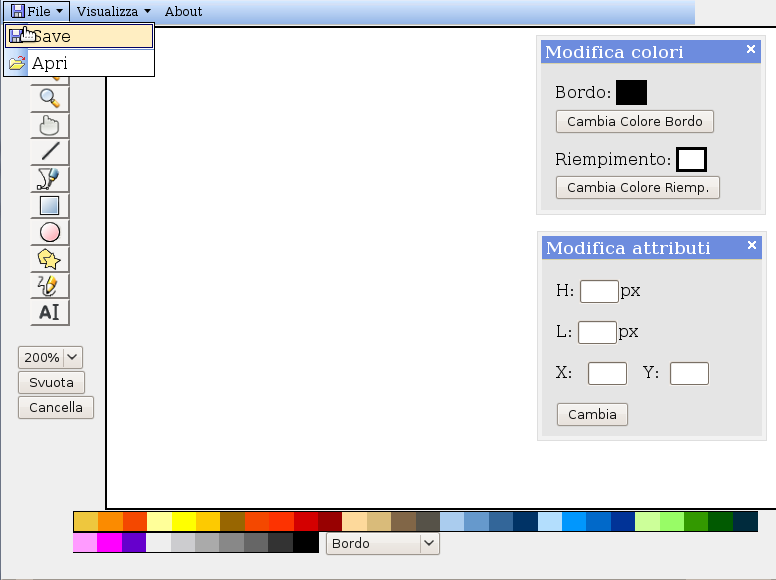
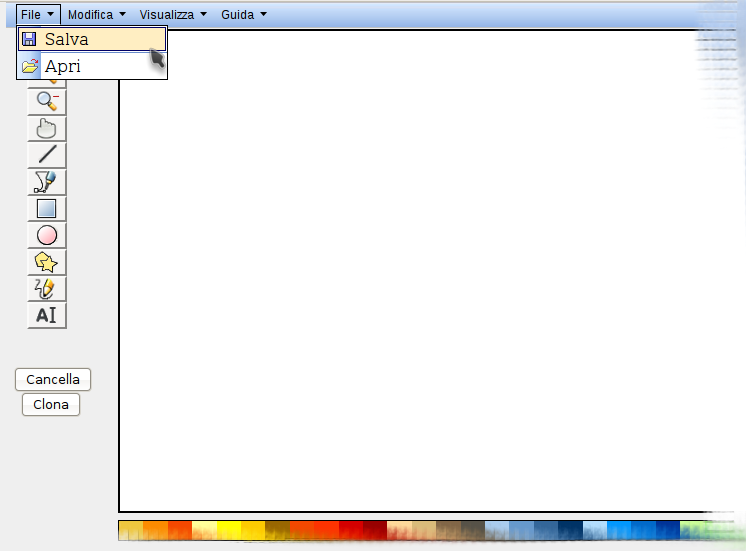
MU:correzioni grammaticali, PQ: piccoli errori, Norme: aggiunti altri plugins

diff --git a/src/canvas.js b/src/canvas.js
@@ -383,7 +383,6 @@ Button.prototype.bindCursor = function(type){
        $("#cv").css({'cursor' : 'url("images/textDraw.png"),auto'});
       break;
      default:
-      alert("fatto");
     }
   }
 };

diff --git a/doc/ManualeUtente/ManualeUtente.tex b/doc/ManualeUtente/ManualeUtente.tex
@@ -166,7 +166,7 @@ Il presente documento si propone di fornire la documentazione di supporto necess
 \sezione{Introduzione}
 
 \subsezione{Definizione dell'utente del prodotto}
-Il prodotto \`e pensato per tutti gli utenti che hanno conoscenze minime in ambiente di grafica vettoriale e che possiedono una connessione ad internet. Il sistema potr\`a anche essere usato da chiunque voglia estendere l'applicazione, secondo le norme che regolano la licenza d'utilizzo.\\
+Il prodotto \`e pensato per tutti gli utenti che hanno conoscenze minime in ambiente di grafica vettoriale e che possiedono una connessione ad internet. Il sistema potr\`a essere modificato da chiunque voglia estendere l'applicazione, secondo le norme che regolano la licenza d'utilizzo.\\
 
 \subsezione{Come leggere il manuale}
 Il presente Manuale Utente \`e suddiviso in varie sezioni. Nella sezione ''Introduzione'' il lettore pu\`o trovare riferimenti a documenti utili per l'uso del prodotto e informazioni riguardo eventuali segnalazioni di problemi riscontrati nel suo utilizzo.
@@ -181,12 +181,12 @@ Nella sezione ''Descrizione generale'' viene descritto il prodotto illustrandone
 \subsezione{Come riportare problemi e malfunzionamenti}
 Nel caso durante l'utilizzo del prodotto sorgano problemi o malfunzionamenti non descritti nel seguente documento, l'utente \`e invitato a contattare la WebShape all'indirizzo \href{mailto:webshape.contact@gmail.com}{webshape.contact@gmail.com} riportando i seguenti dati:\\
 \begin{elencopuntato}[\normindent]
-	\item[-] Versione del prodotto
-	\item[-] Sistema operativo in uso
-	\item[-] \underline{Browser} in uso
-	\item[-] Configurazione hardware in uso
-	\item[-] Fase di utilizzo in cui si \`e manifestato l'errore
-	\item[-] Descrizione dell'errore
+	\item[-] Versione del prodotto;
+	\item[-] Sistema operativo in uso;
+	\item[-] \underline{Browser} in uso;
+	\item[-] Configurazione hardware in uso;
+	\item[-] Fase di utilizzo in cui si \`e manifestato l'errore;
+	\item[-] Descrizione dell'errore.
 \end{elencopuntato}
 
 \sezione{Descrizione Generale}
@@ -196,14 +196,14 @@ Il prodotto \`e stato sviluppato come un'applicazione web. \`E possibile utilizz
 funzionalit\`a. Il sistema permette un salvataggio dei disegni che potranno essere ricaricati e aggiornati.
 
 \subsezione{Requisiti tecnici per il funzionamento del programma}
-\subsubsezione{lato client}
+\subsubsezione{Lato client}
 \begin{elencopuntato}[\normindent]
-    \item[-] Requisiti software: Firefox 3.2b2 o successivo, Firefox 3.0.6 tutto tranne il disegno di testo, Opera 9.6 tutto tranne il disegno di testo, Chrome (versione attuale), Safari (versione attuale), IE8: tutto tranne il testo e la selezione che risulta non essere ottimale.\\
+    \item[-] Requisiti software: Firefox 3.1b2 o successivo, Firefox 3.0.6 tutto tranne il disegno di testo, Opera 9.6 tutto tranne il disegno di testo, Chrome (versione attuale), Safari (versione attuale), IE8: tutto tranne il testo e la selezione che risulta non essere ottimale.\\
     Risoluzione minima consigliata: 1024x768.\\
 N.B. Dove non \`e supportato il testo, c'\`e un supporto minimo: un solo font, colore di riempimento ignorato, set di caratteri minimo. 
     \item[-] Requisiti hardware:  Processore Intel 2GHz o compatibili; 512MB memoria RAM 
 \end{elencopuntato}
-\subsubsezione{lato server}
+\subsubsezione{Lato server}
 \begin{elencopuntato}[\normindent]
     \item[-] Requisiti software:  \underline{JVM} 1.5 o superiore, Apache \underline{Tomcat} 6.0 o superiore.
     \item[-] Requisiti hardware:  Processore Intel 1GHz; 1GB memoria RAM
@@ -216,17 +216,17 @@ N.B. Dove non \`e supportato il testo, c'\`e un supporto minimo: un solo font, c
 Il programma non necessita di installazione. 
 
 \subsubsezione{Lato server}
-Per permettere il funzionamento del sistema, \`e necessario installare un Web Server: Apache Tomcat. Oltre a essere un Web Server, Tomcat \`e anche un
+Per permettere il funzionamento del sistema, \`e necessario installare un Web Server: Apache Tomcat. Oltre ad essere un Web Server, Tomcat \`e anche un
 Application Server, cio\`e una piattaforma per l'esecuzione di applicazioni Web sviluppate nel linguaggio Java.\\
 \\
 Prima di tutto \`e necessario disporre di una Java Virtual Machine. Per il download visitare il link al sito ufficiale della Sun Microsystem:\\
-http://java.com/download/index.jsp\\
+\href{http://java.com/download/index.jsp}{http://java.com/download/index.jsp}\\
 \\
-Per effettuare il download di Apache Tomcat 6.0 andare al link del sito ufficiale \textit{http://tomcat.apache.org/download-60.cgi}\\
+Per effettuare il download di Apache Tomcat 6.0 seguire il link del sito ufficiale: \href{http://tomcat.apache.org/download-60.cgi}{http://tomcat.apache.org/download-60.cgi}\\
 Nella sezione \textit{Binary Distribution} della pagina web, \`e possibile effettuare il download sia per sistemi Windows che per sistemi Linux.\\
 \\\\
 \indent{\textbf{Installazione su sistemi Windows:}}\\
-Terminato il download, fare doppio click sul file scaricato per iniziare l'installazione.\\
+Terminato il download, aprire il file scaricato per iniziare l'installazione.\\
 La schermata \`e la seguente:
 
 \begin{figure}[!ht]
@@ -235,7 +235,7 @@ La schermata \`e la seguente:
 \caption{Setup Wizard Apache Tomcat}
 \end{figure} 
 
-Premere \textit{Next} per andare avanti e accettare la licenza.
+Premere \textit{Next} per proseguire e accettare la licenza.
 Giunti alla schermata per la scelta della cartella di installazione, mantenere quella indicata di default.
 
 \begin{figure}[!ht]
@@ -246,7 +246,7 @@ Giunti alla schermata per la scelta della cartella di installazione, mantenere q
 \newpage
 
 Premere \textit{Next}, e si presenter\`a la finestra di configurazione di Tomcat:
-Alla voce \textit{http/1.1 Connector Port} lasciare il valore di default (di solito 8080), quindi impostare una User Name e Password a scelta necessarie per accedere alla configurazione di Tomcat.\\
+Alla voce \textit{http/1.1 Connector Port} lasciare il valore di default (solitamente 8080), quindi impostare Username e Password, necessarie per accedere alla configurazione di Tomcat.\\
 Quindi premere \textit{Next}.
 
 \begin{figure}[!ht]
@@ -255,9 +255,7 @@ Quindi premere \textit{Next}.
 \caption{Configuration}
 \end{figure} 
 
-Nella schermata successiva, \`e necessario indicare il percorso dell'installazione della Java Virtual Machine (J2SE). Se gia installata, lasciare il percorso di default
-indicato.
-Per completare l'installazione, premere su \textit{Install}.
+Nella schermata successiva, \`e necessario indicare il percorso dell'installazione della Java Virtual Machine (J2SE). Se g\`a  installata, mantenere il percorso di default indicato. Per completare l'installazione, cliccare su \textit{Install}.
 
 \begin{figure}[!ht]
 \centering
@@ -266,20 +264,19 @@ Per completare l'installazione, premere su \textit{Install}.
 \end{figure} 
 
 \indent{\textbf{Installazione su sistemi Linux:}}\\
-Scaricato il .tar.gz, estrarre il contenuto su una cartella.
-Non \`e necessaria una installazione vera e propria e per la sua esecuzione si rimanda al paraggrafo \textit{Avvio del programma} sezione \textit{Linux}.
+Scaricato il .tar.gz, estrarre il contenuto in una cartella. Non \`e necessaria un'installazione vera e propria e per la sua esecuzione si rimanda al paragrafo \textit{Avvio del programma} sezione \textit{Linux}.
 
 \subsezione{Avvio del programma}
 \subsubsezione{Lato client}
-\`E sufficiente aprire la pagina web con un browser supportato. L'indirizzo dipende dall'host in cui viene installato il server.
+\`E sufficiente aprire la pagina web con un browser supportato. L'indirizzo dipende dall'host nel quale viene installato il web server.
 \subsubsezione{Lato server}
-Sono presenti due sezioni per effettuare l'avvio su sistemi Windows e su sistemi Linux.\\
-\\\\
+Sono presenti due sezioni per effettuare l'avvio su sistemi Windows e su sistemi Linux.\\ \\ \\
 \indent{\textbf{Avvio del programma su sistemi Windows:}}\\
-Per l'avvio del server, andare su \textit{Start-$ > $Programmi-$ > $Apache Tomcat 6.0} e avviare \textit{Monitor Tomcat}.
+Per l'avvio del web server, andare su \textit{Start-$ > $Programmi-$ > $Apache Tomcat 6.0} e avviare \textit{Monitor Tomcat}.
 Nella barra delle applicazioni in esecuzione, apparir\`a l'icona che indica l'avvio di Tomcat.\\
-A questo punto avviare un browser e digitare il seguente indirizzo\\ \textit{http://localhost:8080/manager/html}\\
-Dopo aver inserito User Name e Password richiesti, si entrer\`a nel manager di Tomcat.\\
+A questo punto avviare un browser e digitare il seguente indirizzo:\\ 
+\href{http://localhost:8080/manager/html}{http://localhost:8080/manager/html}\\
+Dopo aver inserito Username e Password richiesti, si entrer\`a nell'area di gestione di Tomcat.\\
 Andare nella sezione \textit{WAR file to deploy} della pagina.\\
 \begin{figure}[!ht]
 \centering
@@ -287,7 +284,7 @@ Andare nella sezione \textit{WAR file to deploy} della pagina.\\
 \caption{Deploy}
 \end{figure} 
 
-Selezionare il file .war dell'applicazione e quindi premere su Deploy.\\
+Selezionare il file \textit{.war} dell'applicazione e quindi cliccare su \textit{Deploy}.\\
 A questo punto nella cartella \textit{webapps} della cartella di installazione di Tomcat sar\`a presente l'applicazione AJAXDRAW pronta per la sua esecuzione.\\ 
 \\\\
 \indent{\textbf{Avvio del programma su sistemi Linux:}}\\
@@ -303,15 +300,15 @@ Se tutto \`e andato per il meglio, dovrebbero comparire i path di CATALINA e JRE
 %Using CATALINA\{_}TMPDIR: /home/red/apache-tomcat-6.0.14/temp\\
 %Using JRE\{_}HOME: /usr/lib/jvm/java-6-sun-1.6.0.03\\
 \\
-Avviare un browser e inserire l'indirizzo \textit{http://localhost:8080}\\
+Avviare un browser e inserire l'indirizzo \href{http://localhost:8080}{http://localhost:8080}.\\
 Se compare la pagina principale di Tomcat, significa che il Web Server funziona correttamente.
-A questo punto, \`e necessario procedere alla configurazione dell'utente amministratore per poter usare il Tomcat Manager.
+A questo punto, \`e necessario procedere alla configurazione dell'utente amministratore per poter utilizzare il Tomcat Manager.
 Per fare questo, da shell, spostarsi nella cartella principale di Tomcat ed eseguire i seguenti comandi:\\
 \\
 \textit{cd conf}\\
 \textit{sudo gedit tomcat-users.xml}\\
 \\
-Sostituire il file aperto, con il seguente codice:\\
+Sostituire il contenuto del file aperto con il seguente codice:\\
 \\
 \textit{$ < $?xml version='1.0' encoding='utf-8'?$ > $}\\
 \textit{$ < $tomcat-users$ > $}\\
@@ -320,10 +317,10 @@ Sostituire il file aperto, con il seguente codice:\\
 \textit{  $ < $user username='admin' password='admin' roles='manager'/$ > $}\\
 \textit{$ < $/tomcat-users$ > $} \\
 \\
-In questo modo \`e stato impostato uno User Name con valore \textit{admin} e una Password con valore \textit{admin}. Queste credenziali sono da usare per accedere al Tomcat Manager.\\
-A questo punto avviare un browser e digitare il seguente indirizzo\\ \textit{http://localhost:8080/manager/html}\\
-Dopo aver inserito User Name e Password richiesti, si entrer\`a nel manager di Tomcat.\\
-Andare nella sezione \textit{WAR file to deploy} della pagina.
+In questo modo \`e stato impostato uno Username con valore \textit{admin} e una Password con valore \textit{admin}. Queste credenziali possono essere utilizzate per accedere al Tomcat Manager.\\
+A questo punto avviare un browser e digitare il seguente indirizzo\\ \href{http://localhost:8080/manager/html}{http://localhost:8080/manager/html}\\
+Dopo aver inserito Username e Password richiesti, si acceder\` a al manager di Tomcat.\\
+Raggiungere la sezione \textit{WAR file to deploy} della pagina.
 
 \begin{figure}[!ht]
 \centering
@@ -332,7 +329,7 @@ Andare nella sezione \textit{WAR file to deploy} della pagina.
 \end{figure} 
 
 Selezionare il file .war dell'applicazione e quindi premere su Deploy.\\
-
+\newpage
 \subsezione{Descrizione funzionale - Lato client}
 \subsubsezione{Il Menu}
 Il programma dispone di un menu a tendina nella parte alta dell'interfaccia grafica.
@@ -343,12 +340,13 @@ Il programma dispone di un menu a tendina nella parte alta dell'interfaccia graf
 \caption{menu a tendina}
 \end{figure} 
 
-Nella sezione \textit{File} \`e possibile salvare il lavoro effettuato sul proprio computer in formato \underline{svg}, oppure caricare un lavoro realizzato in precedenza.
-Per aprire un file si deve selezionare \textit{File > Carica} e inserire il percorso del file nel dialog che si aprir\`a oppure selezionarlo cliccando sul pulsante \textit{Sfoglia}. 
-Per salvare un file si deve selezionare \textit{File > Salva} e inserire un nome nel dialog che si aprir\`a in seguito e confermare la scelta. Comparir\`a un link che permette di scaricare il file.
-La sezione \textit{Visualizza} permette di visualizzare i dialog delle propriet\`a nel caso fossero stati chiusi tramite il tasto di chiusura in alto a destra (la classica X). \textit{Colori} si riferisce alla finestra che modifica i colori di una figura mentre \textit{Propriet\`a} gestisce la posizione e la dimensione di una figura.
-Infine la sezione \textit{About} permette di visualizzare informazioni sul prodotto e sull'azienda sviluppatrice.
-
+Nella sezione \textit{File} \`e possibile salvare il lavoro svolto fino a quel momento sul proprio computer in formato \underline{svg}, oppure caricare un lavoro realizzato in precedenza.
+Per aprire un file si deve selezionare \textit{File -$ > $Carica} e inserire il percorso del file nel dialog che si aprir\`a oppure selezionarlo cliccando sul pulsante \textit{Sfoglia}. 
+Per salvare un file si deve selezionare \textit{File -$ > $Salva} e inserire un nome nel dialog che si aprir\`a in seguito e confermare la scelta. Comparir\`a un link che permette di scaricare il file.
+La sezione \textit{Modifica} contiene il pulsante \textit{Svuota Canvas}, che permette di eliminare tutte le figure disegnate sul canvas e ricominciare dall'inizio.
+La sezione \textit{Visualizza} permette di visualizzare i dialog delle propriet\`a nel caso fossero stati chiusi tramite il tasto di chiusura in alto a destra (la classica X). \textit{Colori} si riferisce alla finestra che modifica i colori di una figura mentre \textit{Propriet\`a} gestisce la posizione e la dimensione di una figura, e altre opzioni dipendenti dallo strumento in uso.
+Infine la sezione \textit{Guida} contiene il link alla guida in linea, e permette di visualizzare informazioni sul prodotto e sull'azienda sviluppatrice.
+\newpage
 \subsubsezione{La Toolbar}
 Le funzioni di disegno del programma sono accessibili attraverso i bottoni presenti nel lato sinistro dell'interfaccia grafica. Cliccando su un pulsante si attiva la funzione desiderata. Il puntatore del mouse cambia a seconda della funzione di disegno scelta, nei browser che lo supportano.
 
@@ -358,7 +356,7 @@ Le funzioni di disegno del programma sono accessibili attraverso i bottoni prese
 \caption{Selezione}
 \end{figure} 
 
-Qui \`e stata usata la funzione \textit{seleziona} per selezionare una figura. Selezionata una figura, tutti i suoi parametri sono visualizzati nelle finestre grafiche sulla destra. \`E possibile spostare i punti evidenziati cliccando su di essi e trascinare il mouse tenendo premuto il pulsante. Rilasciare il pulsante per fermare lo spostamento. Modificando questi punti \`e possibile modificare le dimensioni delle figure, e nel caso delle linee a mano libera e delle curve di bezier \`e possibile spostare i punti per cui passano le tangenti alle curve. Cliccando e tenendo premuto il pulsante sinistro del mouse dentro ad una figura \`e possibile spostarla all'interno dell'area di disegno.
+Qui \`e stata usata la funzione di \textit{selezione}. Una volta selezionata una figura, tutti i suoi parametri sono visualizzati nel dialog delle propriet\` a sulla destra. \`E possibile spostare i punti evidenziati cliccando su di essi e trascinare il mouse tenendo premuto il pulsante. Rilasciare il pulsante per fermare lo spostamento. Modificando questi punti \`e possibile regolare la dimensione delle figure, e nel caso specifico delle linee a mano libera e delle curve di Bezier si possono spostare i punti per cui passano le tangenti alle curve. Cliccando e mantenendo la pressione del pulsante sinistro del mouse all'interno di una figura, \`e possibile spostarla all'interno dell'area di disegno, azione effettuabile anche tramite le frecce direzionali della tastiera.
 
 \begin{figure}[!ht]
 \centering
@@ -367,7 +365,7 @@ Qui \`e stata usata la funzione \textit{seleziona} per selezionare una figura. S
 \end{figure} 
 
 \vspace{100pt}
-Qui \`e stata selezionata la funzione \textit{Ellisse}. Si deve fare click nella pozione in cui si vuole disegnare la figura (vertice alto a sinistra della figura), poi col puntatore del mouse premuto si modifica la dimensione della figura. Seguendo la stessa procedura \`e possibile disegnare rettangoli dopo aver selezionato il relativo strumento.
+In questo caso \`e stata selezionata la funzione per il disegno di un'\textit{ellisse}. Cliccando e spostando il mouse sopra all'area disegnabile, si ha la possibilit\` a di creare una figura di dimensioni arbitrarie, che verr\` a effettivamente disegnata al rilascio del pulsante sinistro del mouse. Per il disegno di un \textit{rettangolo}, valgono le stesse considerazioni.
 
 \begin{figure}[!ht]
 \centering
@@ -376,17 +374,17 @@ Qui \`e stata selezionata la funzione \textit{Ellisse}. Si deve fare click nella
 \end{figure} 
 
 \vspace{300pt}
-Qui \`e stato disegnato un \textit{poligono regolare}. L'unica differenze rispetto ad ellissi e rettangoli consiste nella finestra di propriet\`a a destra dell'interfaccia grafica, che permette di modificare il numero di lati del poligono inserendo il valore desiderato a fianco dell'etichettta \textit{N. di lati} e confermando tale scelta cliccando sul bottone \textit{Cambia}.
+Qui \`e stato disegnato un \textit{poligono regolare}. L'unica differenza rispetto ad ellissi e rettangoli consiste nella composizione della finestra di propriet\`a, alla quale si aggiunge una casella che permette di modificare il numero di lati del poligono da disegnare o disegnato, inserendo il valore desiderato a fianco dell'etichettta \textit{N. di lati} e confermando tale scelta cliccando sul pulsante \textit{Cambia}.
 
 \begin{figure}[!ht]
 \centering
 \includegraphics[scale=0.5]{images/mano.png}
-\caption{Strumento Mano per spostare, trascinare le figure}
+\caption{Strumento Mano per spostare l'area visualizzata}
 \end{figure} 
 \newpage
 
 \vspace{300pt}
-Qui \`e stata selezionata la funzione \textit{Mano}. Cliccando in un punto qualsiasi del \underline{canvas} \`e possibile cambiare l'area di disegno correntemente visualizzata spostando il mouse mantenendo premuto il tasto sinistro.
+Qui \`e stata selezionata la funzione di \textit{spostamento} dell'area di disegno. Cliccando su un punto qualsiasi del \underline{canvas} \`e possibile cambiare l'area di disegno correntemente visualizzata spostando il mouse mantenendo premuto il tasto sinistro.
 
 \begin{figure}[!ht]
 \centering
@@ -397,7 +395,7 @@ Qui \`e stata selezionata la funzione \textit{Mano}. Cliccando in un punto quals
 \newpage
 
 \vspace{300pt}
-Qui \`e stata selezionata la funzione \textit{Disegno a mano libera} cliccando sull'apposito bottone (evidenziato in grigio). \`E possibile tracciare una linea a mano libera tenendo premuto il pulsante sinistro del mouse e muovendo il mouse.
+Qui \`e stata selezionata la funzione di \textit{Disegno a mano libera}. \`E possibile tracciare una linea a mano libera tenendo premuto il pulsante sinistro del mouse e muovendo il mouse. 
 
 \begin{figure}[!ht]
 \centering
@@ -406,7 +404,7 @@ Qui \`e stata selezionata la funzione \textit{Disegno a mano libera} cliccando s
 \end{figure} 
 
 \vspace{300pt}
-Qui \`e stata selezionata la funzione \textit{Disegno di una retta}. Si deve tenere premuto il pulsante sinistro del mouse e spostare il cursore per disegnare la linea retta. La fine della retta \`e determinata dal rilascio del pulsante del mouse.
+Qui \`e stata selezionata la funzione \textit{Disegno di una retta}. Si deve premere il pulsante sinistro del mouse e spostare il cursore per disegnare la linea retta. La fine della retta \`e determinata dal rilascio del pulsante del mouse.
 
 \begin{figure}[!ht]
 \centering
@@ -415,7 +413,7 @@ Qui \`e stata selezionata la funzione \textit{Disegno di una retta}. Si deve ten
 \end{figure} 
 
 \vspace{300pt}
-Qui \`e stata selezionata la funzione \textit{Etichetta di testo}. Si deve cliccare sull'area di disegno per scegliere la posizione del testo ed utilizzare la finestra di propriet\`a a destra per cambiare il testo dell'etichetta ed il font.
+Qui \`e stata selezionata la funzione per la creazione di una\textit{casella di testo}. Si deve cliccare sull'area di disegno come per le altre figure, per stabilire posizione e dimensioni della casella,  ed utilizzare il dialog di propriet\`a per cambiare la stringa contenuta all'interno ed il tipo di carattere (solo per i browser che supportano tale funzionalit\` a).
  
 \begin{figure}[!ht]
 \centering
@@ -430,9 +428,8 @@ Qui \`e stata selezionata la funzione \textit{Etichetta di testo}. Si deve clicc
 \end{figure} 
 
 \vspace{100pt}
-Qui \`e stata selezionata la funzione \textit{Zoom}. \`E possibile impostare manualmente la percentuale di zoom agendo sulla combobox posta in basso a sinistra dell'applicazione con un click sulla combobox apposita e un click sulla percentuale desiderata. A questo punto \`e possibile aumentare o diminuire lo zoom della percentuale desiderata mediante l'tuilizzo dei pulsanti lente (evidenziati in grigio) per aumentare o diminuire il grado di zoom.
+Qui \`e stata selezionata la funzione di \textit{Zoom}. \`E possibile aumentare o diminuire il livello di zoom mediante l'utilizzo dei pulsanti appositi.
  
-
 \begin{figure}[!ht]
 \centering
 \includegraphics[scale=0.4]{images/bezier.png}
@@ -440,7 +437,7 @@ Qui \`e stata selezionata la funzione \textit{Zoom}. \`E possibile impostare man
 \end{figure} 
 
 \vspace{100pt}
-Qui \`e stata selezionata la funzione \textit{Curva di Bezier}. Per disegnare la curva, si deve fare click sul piano di disegno dove si desidera disegnare la curva. Il punto selezionato sar\`a il punto iniziale della curva, poi eseguire due click sul piano di disegno per descrivere i due punti controllo per cui passeranno le tangenti alla curva ed infine un ultimo click per selezionare il punto finale della curva.
+Qui \`e stata selezionata la funzione per il disegno di una \textit{Curva di Bezier} cubica. Per disegnare la curva, \` e necessario impostare i 4 punti necessari al suo calcolo. Il primo punto sar\`a l'inizio della curva, seguito dai due punti controllo per cui passeranno le tangenti ed infine l'ultimo imposter\` a il punto finale della curva. Si avr\` a comunque la possibilit\` a di controllare ad ogni passaggio la conformazione della figura in fase di creazione.
 %%%%%%%%%%%%%%%%%%%%%%%%%%%% FINE TOOLBAR %%%%%%%%%%%%%%%%%%%%%%%%%%%%%%%%
 
 %%%%%%%%%%%%%%%%%%%%%%%%%%%% BOTTONI E DIALOG %%%%%%%%%%%%%%%%%%%%%%%%%%%%%%%%%

diff --git a/doc/PianoDiQualifica/PianoDiQualifica.tex b/doc/PianoDiQualifica/PianoDiQualifica.tex
@@ -258,7 +258,7 @@ Sono raggruppabili in 3 categorie:
 
 \begin{elenconumerato}[\textbf{}]{\subsubsecindent}
 \item \textit{Test di unit\`a}
-: realizzati tramite il software QUnit. Hanno l'obiettivo di considerare un piccola frazione del software per testare se tale porzione funziona come dovrebbe. Il verificatore o chiunque altro esegui questo test dovr\`a constatare che il comportamento della porzione di software testato rispetti tutti i vincoli dell'Analisi dei Requisiti. \`E necessario prestare attenzione in quanto superficialit\`a e distrazione umana possono rendere inefficaci e inutili questi test.
+: realizzati tramite il software QUnit. Hanno l'obiettivo di considerare un piccola frazione del software per testare se tale porzione funziona come dovrebbe. Il verificatore o chiunque altro esegua questo test dovr\`a constatare che il comportamento della porzione di software testato rispetti tutti i vincoli dell'Analisi dei Requisiti. \`E necessario prestare attenzione in quanto superficialit\`a e distrazione umana possono rendere inefficaci e inutili questi test.
 \item \textit{Test di copertura}
 : realizzati tramite il software JSCoverage. Verificano che i test di Unit\`a siano stati effettuati sull'intera porzione di software stabilita. Hanno l'obiettivo di testare se sono state saltate righe di codice. Utile per garantire l'efficacia dei test di Unit\`a. 
 Il verificatore o chiunque altro esegui questo test dovr\`a constatare che tutte le righe di codice siano state coperte nel precedente test di unit\`a, altrimenti sar\`a necessario ripetere e riutilizzare il software QUnit.
@@ -279,7 +279,7 @@ Per determinare il numero di test da effettuare su un porzione di software da te
 Quando un'anomalia viene riscontrata durante una verifica, il verificatore provveder\`a ad aggiungere un ticket al sistema di bug tracking e a segnalarlo, usando i metodi sopra esposti, a chi dovr\`a correggere il problema. La segnalazione dell'errore dovr\`a contenere una descrizione chiara del problema riscontrato. Qualora il correttore trovasse poco chiara o ambigua la descrizione, o fosse in disaccordo con la stessa, aprir\`a una discussione con il verificatore nel gruppo di discussione interno. A correzione avvenuta, questo sar\`a segnalato al verificatore tramite il gruppo di discussione. Il verificatore applicher\`a nuovamente il procedimento di verifica alla correzione. Se quest'ultimo passo va a buon fine, il correttore porr\`a come risolto il ticket nel sistema di bug tracking.
  
 \subsezione{Trattamento delle discrepanze}
-Qualora un prodotto si discostasse da quanto descritto nell'analisi dei requisiti, il responsabile della qualit\`a provveder\`a a individuare la causa e la persona, o le persone, imputabili per la discrepanza. Il responsabile della qualit\`a, dopo averne discusso con lui, o loro, traccier\`a delle azioni correttive e si assicurer\`a che vengano attuate.
+Qualora un prodotto si discostasse da quanto descritto nell'analisi dei requisiti, il responsabile della qualit\`a provveder\`a a individuare la causa e la persona, o le persone, imputabili per la discrepanza. Il responsabile della qualit\`a, dopo averne discusso con lui, o loro, traccer\`a delle azioni correttive e si assicurer\`a che vengano attuate.
  
 \subsezione{Procedure di controllo di qualit\`a di processo}
 L'amministratore del progetto deve assicurarsi che gli standard descritti nelle \textit{NormeDiProgetto} siano rispettati e deve segnalare eventuali infrazioni al responsabile, in modo che provveda a risolverle. Il responsabile della qualit\`a controlla che le attivit\`a di verifica vengano svolte, e che seguano le procedure descritte in questo documento.

diff --git a/doc/NormeDiProgetto/NormeDiProgetto.tex b/doc/NormeDiProgetto/NormeDiProgetto.tex
@@ -239,9 +239,11 @@ Si utilizza Firebug, un estensione di Firefox che consente di effettuare il debu
 \subsezione{Librerie Javascript}
 Si \` e scelto di utilizzare jQuery (\href{http://jquery.com/}{http://jquery.com/}) nella sua ultima versione (1.3.1), una libreria JavaScript veloce e concisa che semplifica l'attraversamento del documento HTML, la gestione degli eventi, le animazioni, e le interazioni Ajax per un rapido sviluppo web. Oltre alla libreria base, si utilizzano anche i seguenti plugins:
  \begin{elencopuntato}[\normindent]
-    \item[-] \textit{jquery.tooltip}  (\href{http://bassistance.de/jquery-plugins/jquery-plugin-tooltip/}{http://bassistance.de/jquery-plugins/jquery-plugin-tooltip/}): per visualizzare un tooltip a comparsa descrittivo della funzione effettuata dall'oggetto grafico sul quale \` e posizionato il cursore;
-    \item[-]\textit{ jquery.browser}  (\href{http://jquery.thewikies.com/browser/}{http://jquery.thewikies.com/browser/}): per aiutare nel riconoscimento dei dettagli del broswser utilizzato, consentendo al programma di adattarsi quindi al client cambiando foglio di stile adottato e funzionalit\` a disponibili;
-    \item[-]\textit{ farbtastic} (\href{http://acko.net/dev/farbtastic}{http://acko.net/dev/farbtastic}) : per aggiungere una o pi\` u ruote per la selezione del colore alla pagina;
+    \item[-] \textit{jquery.tooltip}  (\href{http://bassistance.de/jquery-plugins/jquery-plugin-tooltip/}{http://bassistance.de/jquery-plugins/jquery-plugin-tooltip/}) per visualizzare un tooltip a comparsa descrittivo della funzione effettuata dall'oggetto grafico sul quale \` e posizionato il cursore;
+    \item[-]\textit{jquery.browser}  (\href{http://jquery.thewikies.com/browser/}{http://jquery.thewikies.com/browser/}) per aiutare nel riconoscimento dei dettagli del broswser utilizzato, consentendo al programma di adattarsi quindi al client cambiando foglio di stile adottato e funzionalit\` a disponibili;
+    \item[-]\textit{farbtastic} (\href{http://acko.net/dev/farbtastic}{http://acko.net/dev/farbtastic}) per aggiungere una o pi\` u ruote per la selezione del colore alla pagina;
+    \item[-]\textit{canvastext} (\href{http://jim.studt.net/canvastext/}{http://jim.studt.net/canvastext/}) per permettere di disegnare caselle di testo anche sui browser che non supportano tale funzionalit\` a;
+     \item[-]\textit{menu-for-applications} (\href{http://www.dhtmlgoodies.com/scripts/menu-for-applications/demos/demo-menu-bar.html}{dhtmlgoodies.com/scripts/menu-for-applications/}) per avere a disposizione una comoda barra nella parte alta della pagina utile per richiamare le funzioni pi\` u varie.
   \end{elencopuntato}
 
 \sezione{Stile del codice}
